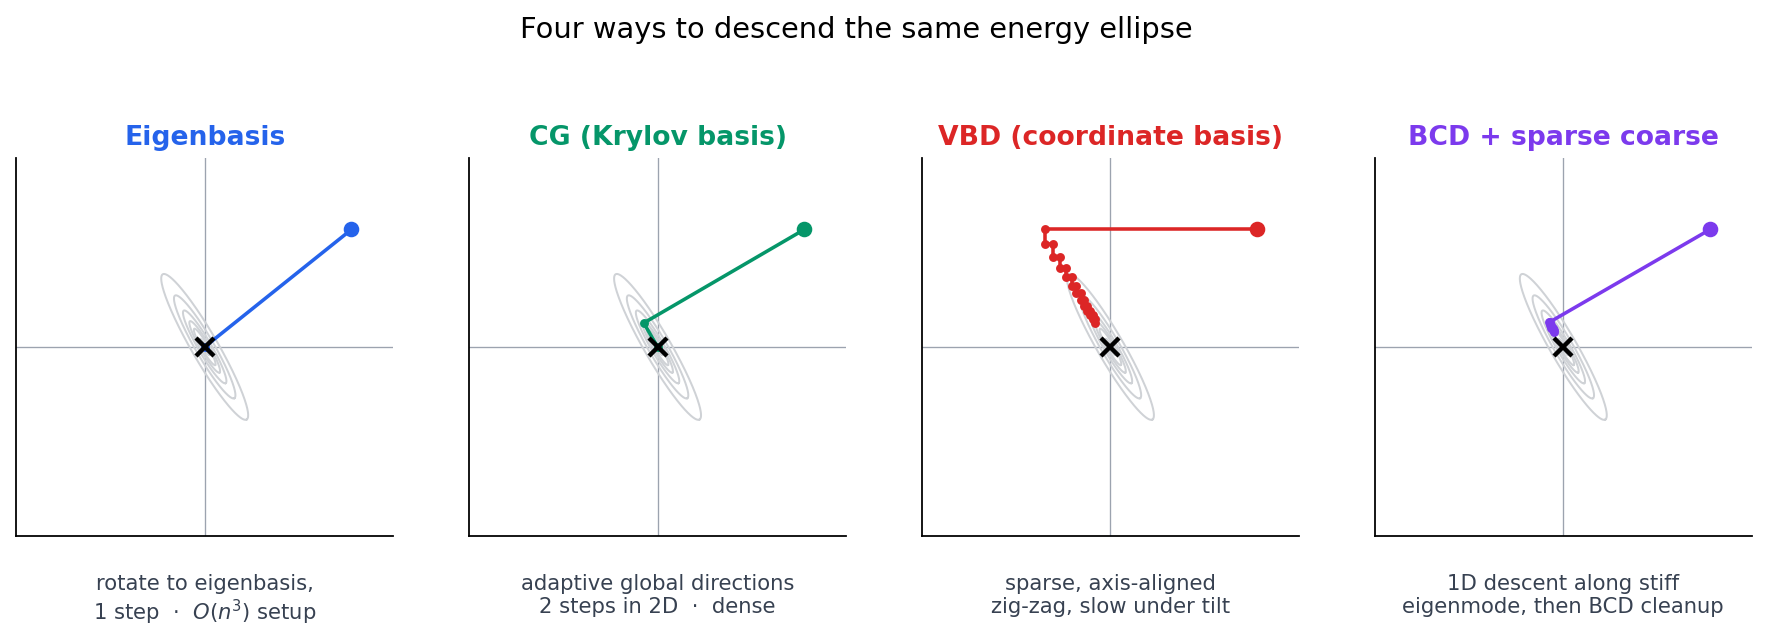
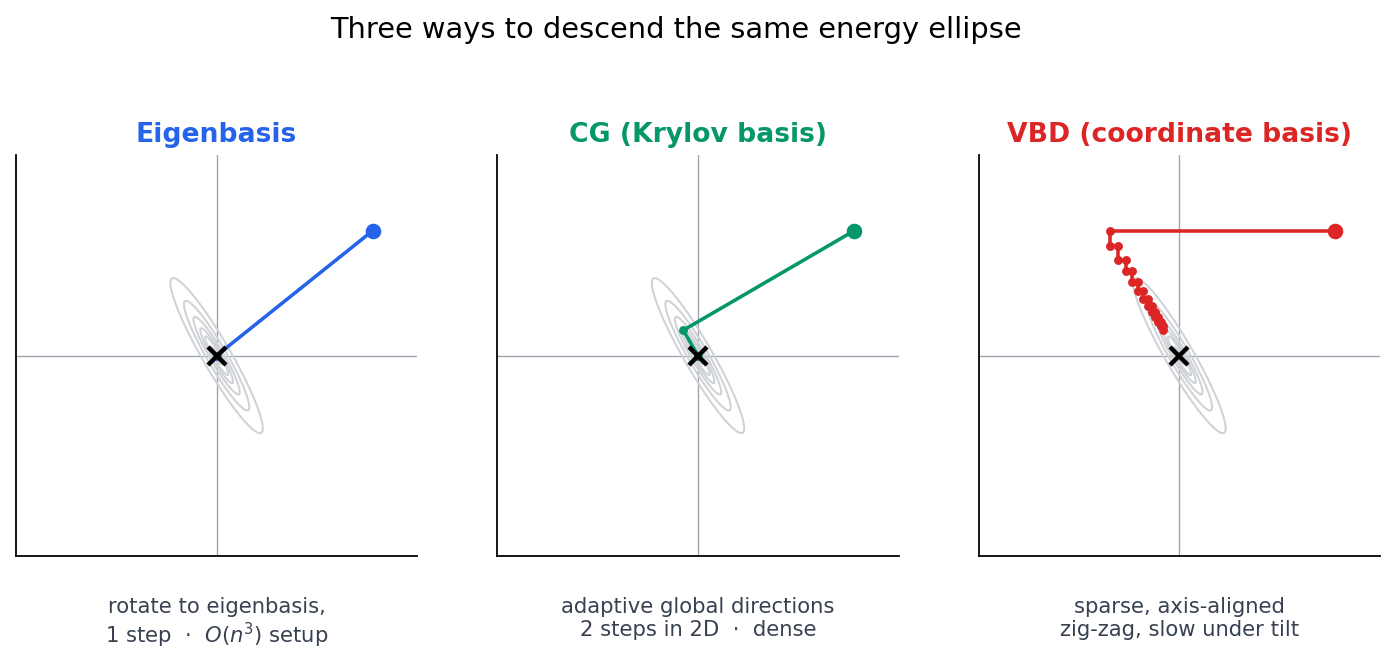
Drop "BCD + sparse coarse" panel from descent comparison figure
The fourth panel was redundant with the new eigenbasis-rebase figure
and the conceptual proposal in the later sections. Keep the three
established strategies (eigenbasis / CG / VBD) in the comparison
plot and let the prose carry the sparse-spectrally-informed idea.

diff --git a/_posts/2026-05-20-vbd-sparse-coarse-space.md b/_posts/2026-05-20-vbd-sparse-coarse-space.md
@@ -58,7 +58,7 @@ Same $\kappa = 25$ in both panels, completely different BCD experience. That dis
 
 ## Every iterative method is a choice of descent basis
 
-Once the picture is "an energy ellipse and a sequence of line searches," every iterative method just becomes a strategy for **picking the directions to search along**. Four strategies are worth lining up next to each other:
+Once the picture is "an energy ellipse and a sequence of line searches," every iterative method just becomes a strategy for **picking the directions to search along**. Three are well-established, plus a fourth that this post is building toward:
 
 **Eigenbasis.** Diagonalize $A = Q \Lambda Q^T$ and change variables $\mathbf{z} = Q^T\mathbf{x}$. In the new coordinates, the energy decouples into independent parabolas $\sum_i \tfrac{1}{2}\lambda_i z_i^2 - \tilde b_i z_i$, and each one is solved in a single division. One sweep, done. The catch is finding $Q$ in the first place: an eigendecomposition costs $O(n^3)$, which is more expensive than the direct solve you were trying to avoid.
 
@@ -72,9 +72,9 @@ Each new direction is $A$-conjugate to the previous ones, so progress in one dir
 
 **Sparse local-eigen basis.** What I am after: directions that are sparse like VBD's (so the local solve and parallelism survive) but *spectrally informed* like CG's (so each direction actually points along a principal axis of $A$). The element stiffness matrices give them to us for free, as we will see in a moment.
 
-![Four descent strategies on the same energy ellipse: eigenbasis, CG, VBD coordinate basis, BCD with a sparse coarse correction](/images/posts/vbd-sparse-coarse-space/descent-comparison.png)
+![Three descent strategies on the same energy ellipse: eigenbasis, CG, VBD coordinate basis](/images/posts/vbd-sparse-coarse-space/descent-comparison.png)
 
-The visual story stacks all four against the same tilted, ill-conditioned ellipse. Eigenbasis walks straight in; CG takes two clean A-conjugate steps; VBD's coordinate basis zig-zags down the long axis; and a single 1D descent along the stiff eigenmode collapses the residual onto the soft direction, leaving only a trivial bit of cleanup. The last picture is the target.
+The three established strategies, stacked against the same tilted, ill-conditioned ellipse: eigenbasis walks straight in, CG takes two clean $A$-conjugate steps, VBD's coordinate basis zig-zags down the long axis. The fourth strategy --- sparse and spectrally informed --- has no off-the-shelf solver to plot here yet; the rest of the post is what it would look like for VBD.
 
 ---
 